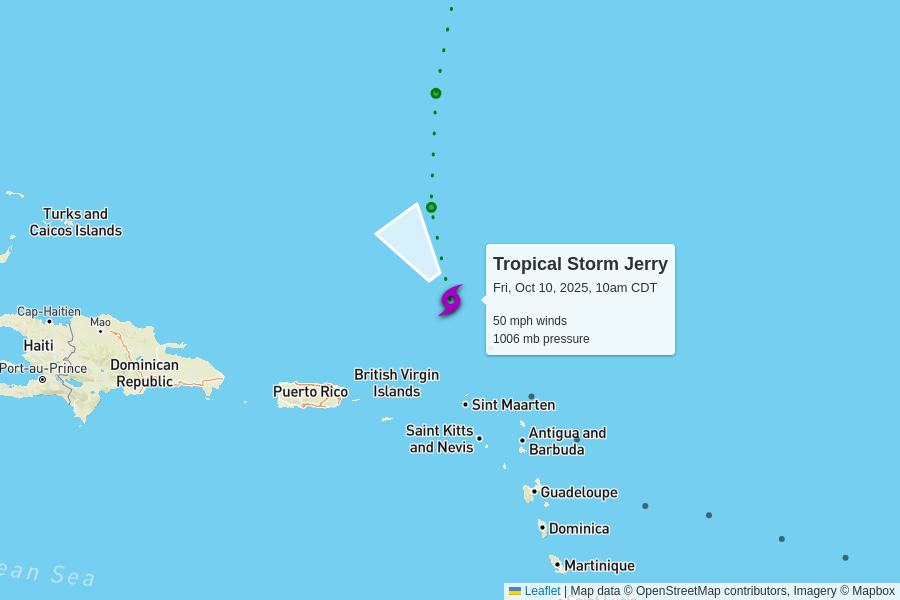
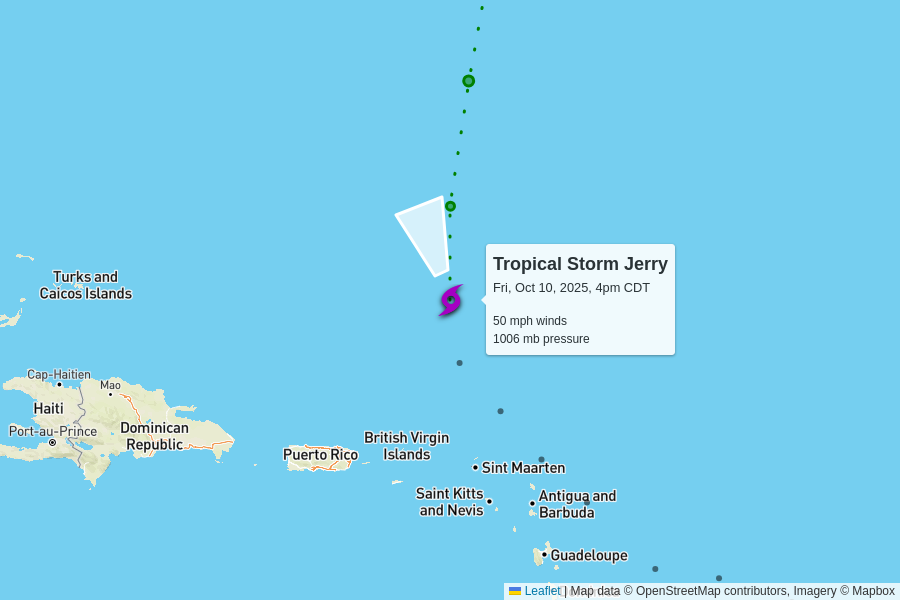
automatic update

diff --git a/docs/index.html b/docs/index.html
@@ -96,59 +96,13 @@
     </p>
 
     
-    <h2>2 active storms</h2>
-    <img src="active.png">
 
     <table>
       <tr>
         <td colspan="6" class="storm category-0" >
           <h2>
-            Tropical Storm Karen
-            <p class="updated">last updated <span data-time>2025-10-10T15:00:00.000Z</span></p>
-          </h2>
-        </td>
-      </tr>
-      
-      <tr>
-        <th class="spacer"></th>
-        <th>wind speed</th>
-        <th>central pressure</th>
-        <th>movement</th>
-        <th>data (CSV)</th>
-        <th>National Hurricane Center</th>
-      </tr>
-      <tr>
-        <td class="spacer"></td>
-        <td>45 mph<br>0 mph since last update</td>
-        <td>998 mb<br>0 mb since last update</td>
-        <td>
-          13 mph to the northeast
-          <br/>
-          <span style="display: inline-block; font-size: 1.5em; transform: rotate(35deg);">↑</span>
-        </td>
-        <td><a href="https://raw.githubusercontent.com/mgwalker/atlantic-hurricanes/main/data/csv/AL112025.csv">AL112025.csv</a></td>
-        <td><a href="https://www.nhc.noaa.gov/archive/2025/KAREN.shtml?">NHC advisories</a></td>
-      </tr>
-      <tr id="storm_AL112025" >
-        <td class="spacer">
-        <td colspan="5">
-          <figure>
-            <img src="AL112025.png">
-            <figcaption>
-              Map data &copy; <a href="https://www.openstreetmap.org/copyright">OpenStreetMap</a> contributors,
-              Imagery &copy; <a href="https://www.mapbox.com/">Mapbox</a> |
-              <a href="https://www.mapbox.com/map-feedback/" target="_blank">Improve this map</a>
-            </figcaption>
-          </figure>
-        </td>
-      </tr>
-      
-
-      <tr>
-        <td colspan="6" class="storm category-0" >
-          <h2>
             Tropical Storm Jerry
-            <p class="updated">last updated <span data-time>2025-10-10T15:00:00.000Z</span></p>
+            <p class="updated">last updated <span data-time>2025-10-10T21:00:00.000Z</span></p>
           </h2>
         </td>
       </tr>
@@ -164,11 +118,11 @@
       <tr>
         <td class="spacer"></td>
         <td>50 mph<br>0 mph since last update</td>
-        <td>1006 mb<br>-1 mb since last update</td>
+        <td>1006 mb<br>0 mb since last update</td>
         <td>
-          16 mph to the northwest
+          15 mph to the north-northwest
           <br/>
-          <span style="display: inline-block; font-size: 1.5em; transform: rotate(325deg);">↑</span>
+          <span style="display: inline-block; font-size: 1.5em; transform: rotate(340deg);">↑</span>
         </td>
         <td><a href="https://raw.githubusercontent.com/mgwalker/atlantic-hurricanes/main/data/csv/AL102025.csv">AL102025.csv</a></td>
         <td><a href="https://www.nhc.noaa.gov/archive/2025/JERRY.shtml?">NHC advisories</a></td>
@@ -178,6 +132,28 @@
         <td colspan="5">
           <figure>
             <img src="AL102025.png">
+            <figcaption>
+              Map data &copy; <a href="https://www.openstreetmap.org/copyright">OpenStreetMap</a> contributors,
+              Imagery &copy; <a href="https://www.mapbox.com/">Mapbox</a> |
+              <a href="https://www.mapbox.com/map-feedback/" target="_blank">Improve this map</a>
+            </figcaption>
+          </figure>
+        </td>
+      </tr>
+      
+
+      <tr>
+        <td colspan="6" class="storm " style="cursor:pointer;" onClick="toggle('AL112025')">
+          <h2>🏁 Karen
+          </h2>
+        </td>
+      </tr>
+      
+      <tr id="storm_AL112025" style="display:none;">
+        <td class="spacer">
+        <td colspan="5">
+          <figure>
+            <img src="AL112025.png">
             <figcaption>
               Map data &copy; <a href="https://www.openstreetmap.org/copyright">OpenStreetMap</a> contributors,
               Imagery &copy; <a href="https://www.mapbox.com/">Mapbox</a> |
